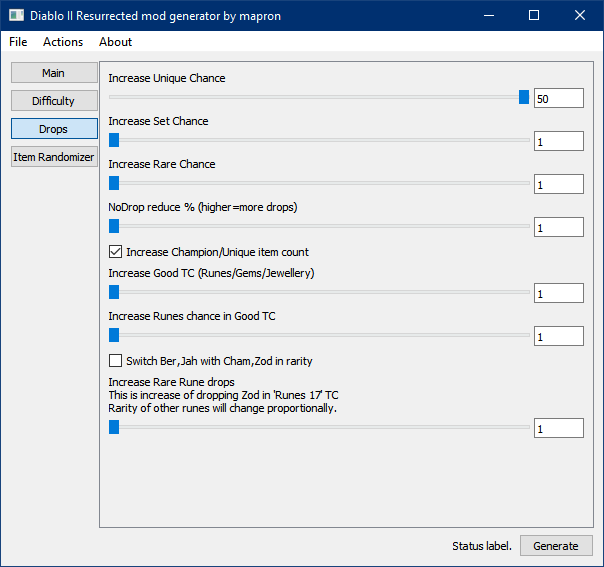
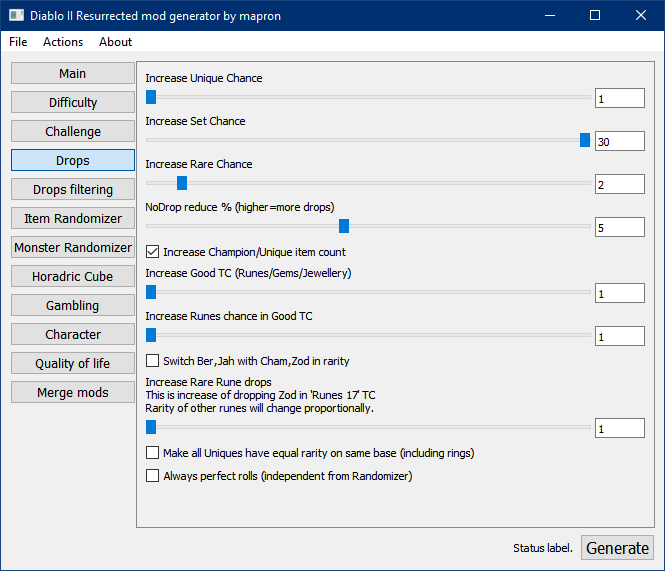
Docs update

Changed region(s): [[0.0, 0.0, 1.0, 0.9894], [0.9536, 0.0, 0.9834, 0.06], [0.8642, 0.0, 0.894, 0.06]]

diff --git a/src/ConfigPageDrops.cpp b/src/ConfigPageDrops.cpp
@@ -174,7 +174,8 @@ KeySet ConfigPageDrops::generate(GenOutput& output, QRandomGenerator& rng, const
                << "runes"
                << "setitems"
                << "magicprefix"
-               << "magicsuffix";
+               << "magicsuffix"
+               << "automagic";
         auto updateMinParam = [](TableView&         view,
                                  const ColumnsDesc& columns) {
             for (auto& row : view) {

diff --git a/README.md b/README.md
@@ -51,17 +51,21 @@ A lot of features enabled here - more Boss drops, increased Uniques/drop count/R
 4. You can check "Export all .txt" checkbox, and have you own mod setup instead (mod folder is filled by D2R internal files).
 
 # Feature tabs
-![tab_difficulty](docs/tab_difficulty.png "Difficulty")  
-Difficulty settings.  
+#### Difficulty settings.  
+![Difficulty](docs/tab_difficulty.png)  
 First there are sliders to adjust monsters AR/Def/HP/Damage/XP. That will affect all monsters on all difficulties.  
 Next, "Density" slider - that will affect increase of density of regular monsters (note that it is higly dependant on map and tiles; max density can be reached on open area tiles.)  
 Boss packs slider icreate number of Champion/Uniques in zones; again, that also not a precise setting.  
 Checkbox can be used to quickly setup boss count on Normal and Nightmare exactly the same as on Hell.  
 And the last, you can adjust level area on all maps; note that max value of 85 is still used (so set to 20 to basically make all Hell 85 areas).  
-  
-  
-![tab_drops](docs/tab_drops.png "Drops")  
-Drops improvement.  
+
+#### Challenge difficulty.  
+![Challenge](docs/tab_challenge.png)  
+First, you can disable potion drops entirely (that's not the same as drop filter).  
+Second, you can change resistance penalty for each difficulty from default 0/40/100.  
+
+#### Drops improvement.  
+![Drops](docs/tab_drops.png)  
 First 3 sliders are for increasing chance for Uniques/Sets/Rares. Note that it's not than accurate when you have already high chance (like killing low level monster with high MF).  
 NoDrop slider provides ability to gradually reduce NoDrop parts (it basically similar to increasing players count in the game).  
 "Increase Champion/Unique item count" make Unique bosses to drop 4 items instead of just 1, and Champions drop 2 items instead of one.  
@@ -69,23 +73,60 @@ NoDrop slider provides ability to gradually reduce NoDrop parts (it basically si
 "Increase Runes chance" tunes Runes specifically compared to other jewellery.  
 Switch Ber/Jah with Cham/Zod pretty descriptive: when game deside to drop Jah rune, it drops Zod instead.  
 Final slider is when everything above is not satisfying and you really really want high runes to be more common. Please don't do that :).  
+"Make all Uniques have same rarity" option for making, for example Tyrael's and Templar's have same chance.  
+"Always perfect rolls" for those who want perfect rolls without Randomizer.  
   
-  
-![tab_random](docs/tab_random.png "Randomizer")  
-Randomizer. Firs you need to set topmost checbox to enable everything.  
+#### Drop filter.  
+![Drop filter](docs/tab_drop_filtering.png)  
+This tab consists of two sections:  
+1. Make some items have compact names, like "!MP5" for Super mana Potion. 
+2. Hide item labels on the ground (you still be able to pick them). 
+
+#### Item randomizer.
+![Randomizer](docs/tab_random.png)  
+First you need to set topmost checkbox to enable everything.  
 Balance level - determine level difference to be used when selecting new properties for item/rune/etc. With '10' it will select between level-10 and level+5 at first, if there are few candidates, then it will select 0..level+5, and finally it will try fully random. In short, lower value = more balance in terms of original affix level and item level.  
 Next four sliders set min/max amount of affixes on Uniques, Sets and RuneWords. Sets (whole bonus)/gems/runes will have 1 as minimum and maximum possible as maximum.  
-Always perfect means simply minimum roll becomes maximum.  
+Always perfect means simply minimum roll becomes maximum (where it makes sense).  
 Randomize magic/rare include modification of regular affixes - so they can include properties of any other item in the game.  
 Same for last option for gems.  
 
+#### Monster randomizer.
+![MonsterRandomizer](docs/tab_random_monsters.png)  
+When this feature enabled, now any area in the game can spawn any basic monsters (Super Uniques, Act bosses etc not affected).  
+For normal difficulty, each monster will have a "level-adjusted" copy which correspond to area level (so you will have adequate monster stats in Act 1 for guest from Act 5).  
+For Nightmare/Hell, adjustment is done by area level.  
+Monster will have adjusted their minion spawns and skill levels, too.  
+First option choose how many different types will spawn at once (default is 3).  
+Second option defines how many possibilites for monster types are exist; Make this value lower if you want less variety on game restart.
+
+#### Horadric cube.
+![Horadric](docs/tab_horadric.png)  
+Create some recipes to cheese/cut corners around the game. Input and results are self-explanatory.  
+
+#### Gambling.
+![Gambling](docs/tab_gamble.png)  
+Tab have sliders to increase basic chance of getting Unique/Rare/Set/High-quality item.  
+
+#### Character.
+![Character](docs/tab_char.png)  
+First three options allow you to change starting items for characters: add Cube, replace id scroll with Tome (useful for No-town runs), and replace hp1 with mp1 potions.  
+Next two sliders allow you to change how many skill and stat poits you get on levelup.  
+Last slider allow you to lower Strength and Dexterity requirements on all items.  
+
+#### Quality of life.
+![Qol](docs/tab_qol.png)  
+Tiny quality things to make you life easier:  
+1. Insreasing stacks for tomes/quivers/keys;
+2. Remove Unique charm limit (useful with randomizer);
+3. Allow usage of some skills in the town;
+4. Reduce item costs. 
 
 # KnownIssues
 1. If there is many dead bodies on the screen, some portals won't open (e.g. near Summoner). Workaround - go far away to another location, wait while corpses disappeared and then trigger the portal.
 2. If charges spawned on a gem/rune, it will constantly update count on gem mouse hover. This glitch is fixes after gem is inserted in socket.
-3. Game trying to render limited item label on the screen - if there are too many items, you will see only closest ones.
-4. Some mods can be spawn on items that do not support them (like Replenish quantity on Amulet). (TODO - future releases)
-5. You need to completely quit out of the game for Diablo 2 Resurrected, to mod changes apply. In Diablo 2 legacy, however, you can just reload save again without quitting.
+3. Game trying to render limited item label on the screen - if there are too many items, you will see only closest ones. Use DropFiltering tab feature.
+4. You need to completely quit out of the game for Diablo 2 Resurrected, to mod changes apply. In Diablo 2 legacy, however, you can just reload save again without quitting.
 
 # Q&A and Troubleshooting
 If you encounter an issue (hang/crash) in generator itself, grab applog.txt (File->Browse to settings folder) (make sure to copy file just after the crash). Then create an issue and attach this file.  
